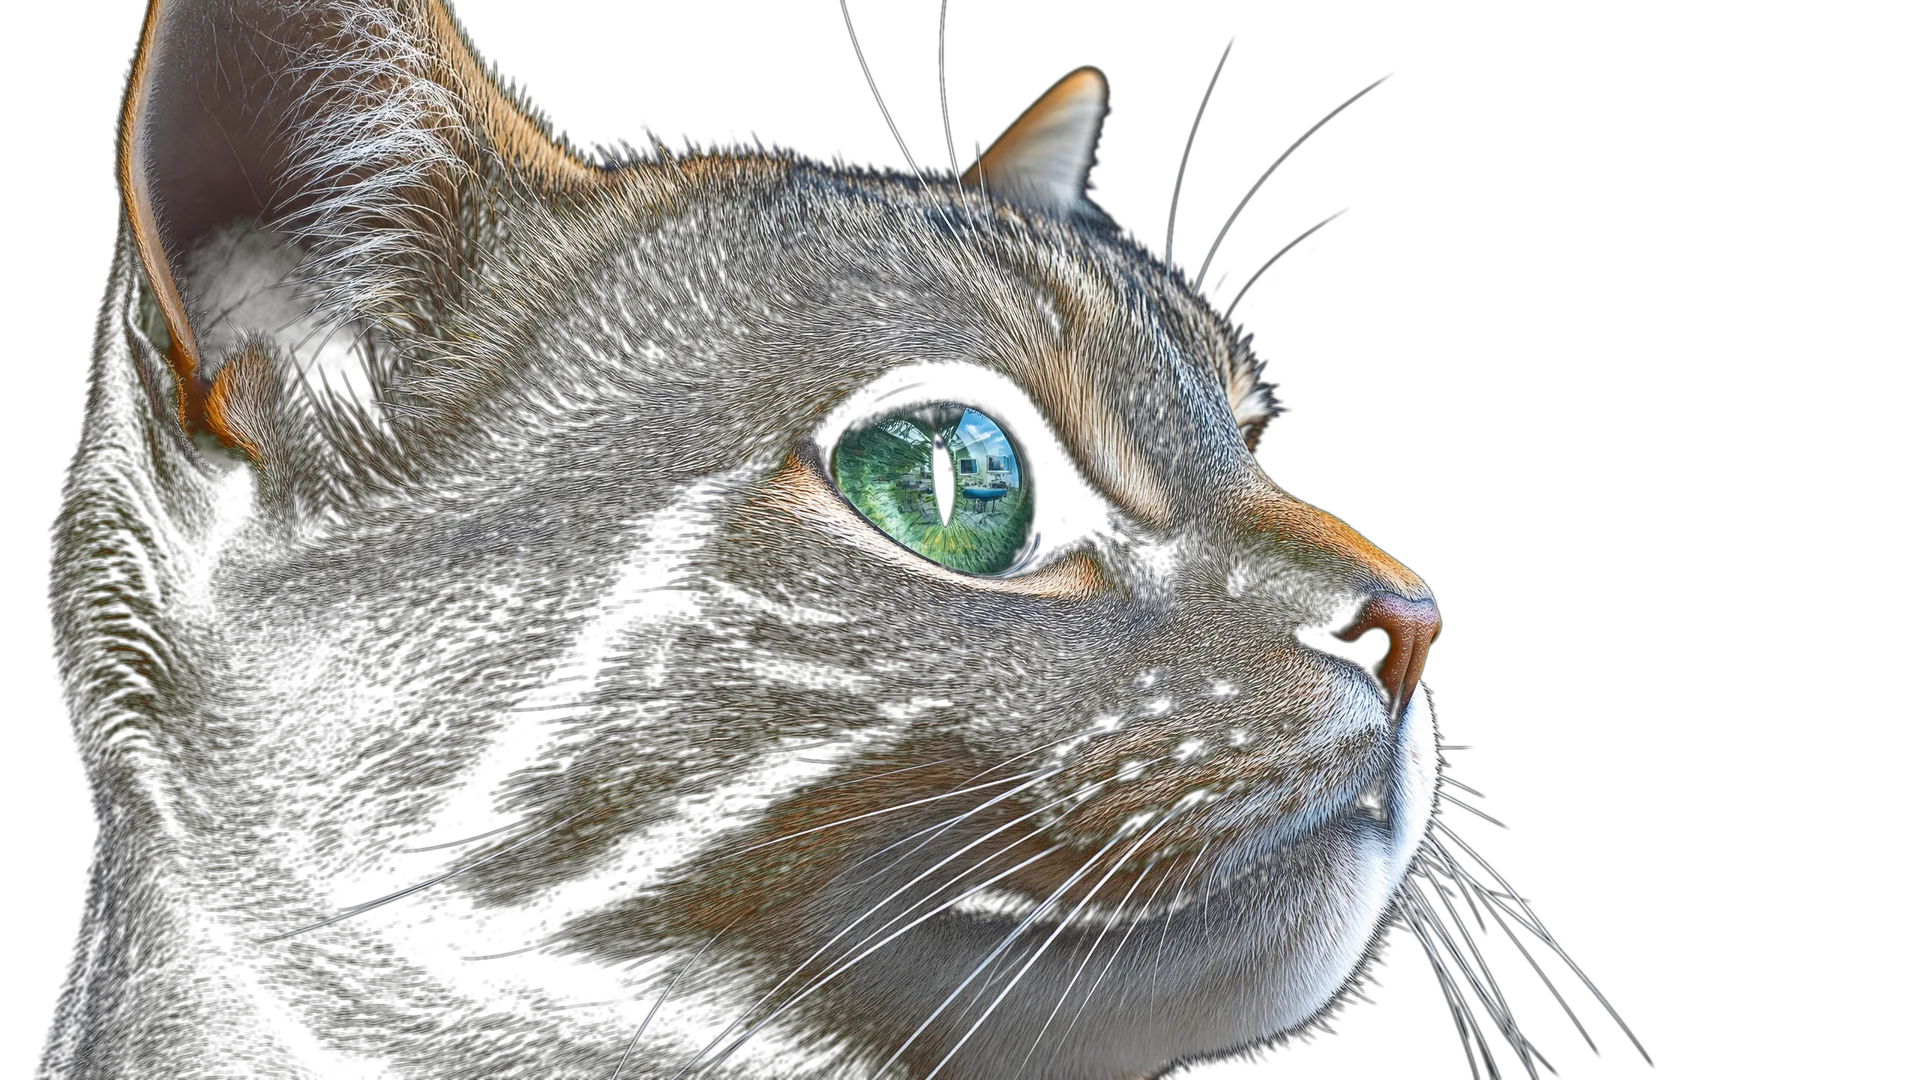
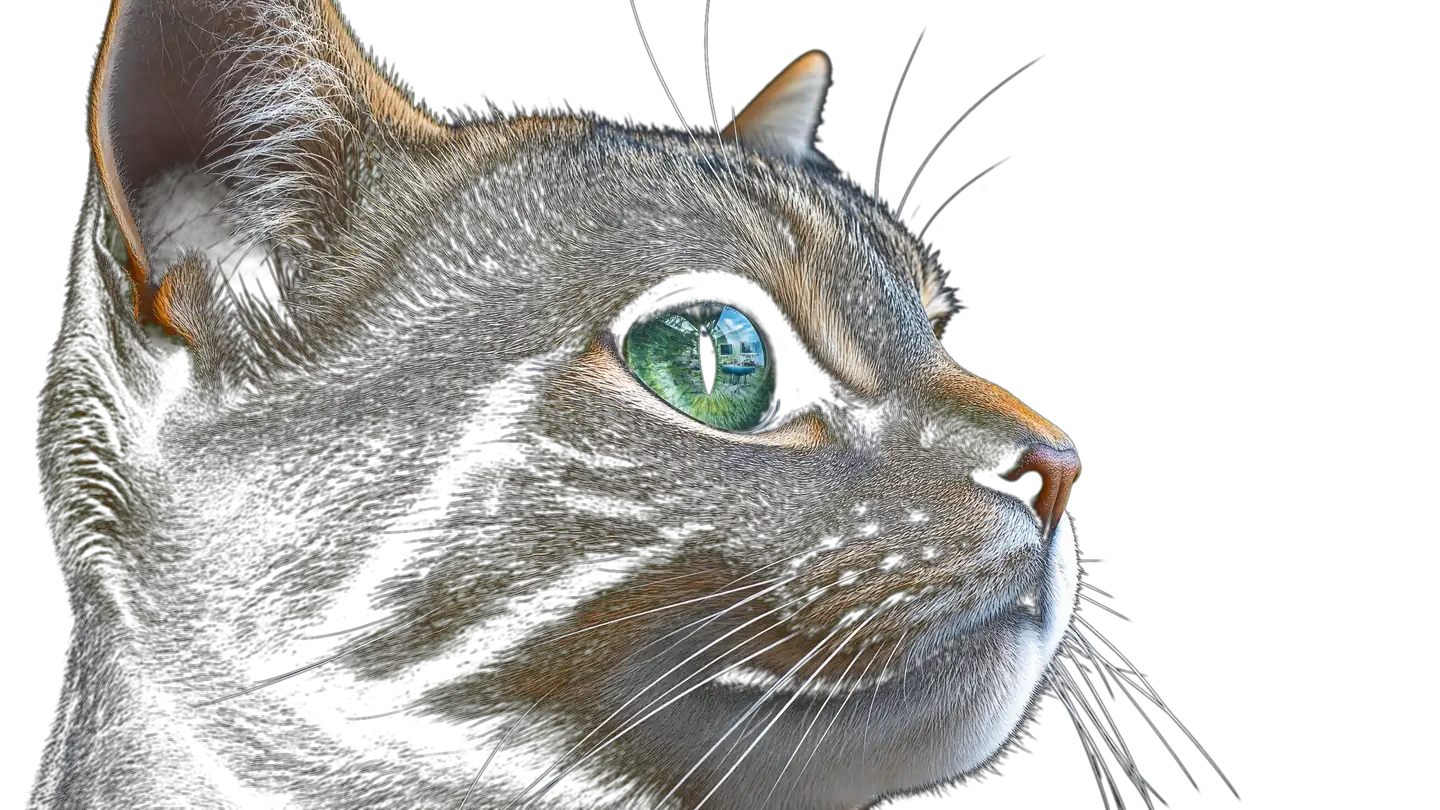
Otimização ULTRA de imagens + Efeito de carregamento suave
- Hero Desktop: Reduzido para ~500KB (92% menor que original)
- Hero Mobile: Reduzido para ~330KB (94% menor que original)
- Adicionado animação CSS de fade-in com blur para carregamento elegante
- Imagens agora abrem muito mais rápido, eliminando sensação de bug

diff --git a/index.html b/index.html
@@ -105,6 +105,12 @@
     /* Verde esmeralda profundo — elegante e sofisticado */
     background-color: #0d2b1e;
     background-image: url('./assets/hero_cat_desktop.webp');
+    /* Efeito de carregamento suave para evitar 'pulo' visual */
+    animation: heroFadeIn 1.2s ease-out forwards;
+  }
+  @keyframes heroFadeIn {
+    from { opacity: 0; filter: blur(10px); }
+    to { opacity: 1; filter: blur(0); }
   }
   @media(max-width:880px){
     .hero{